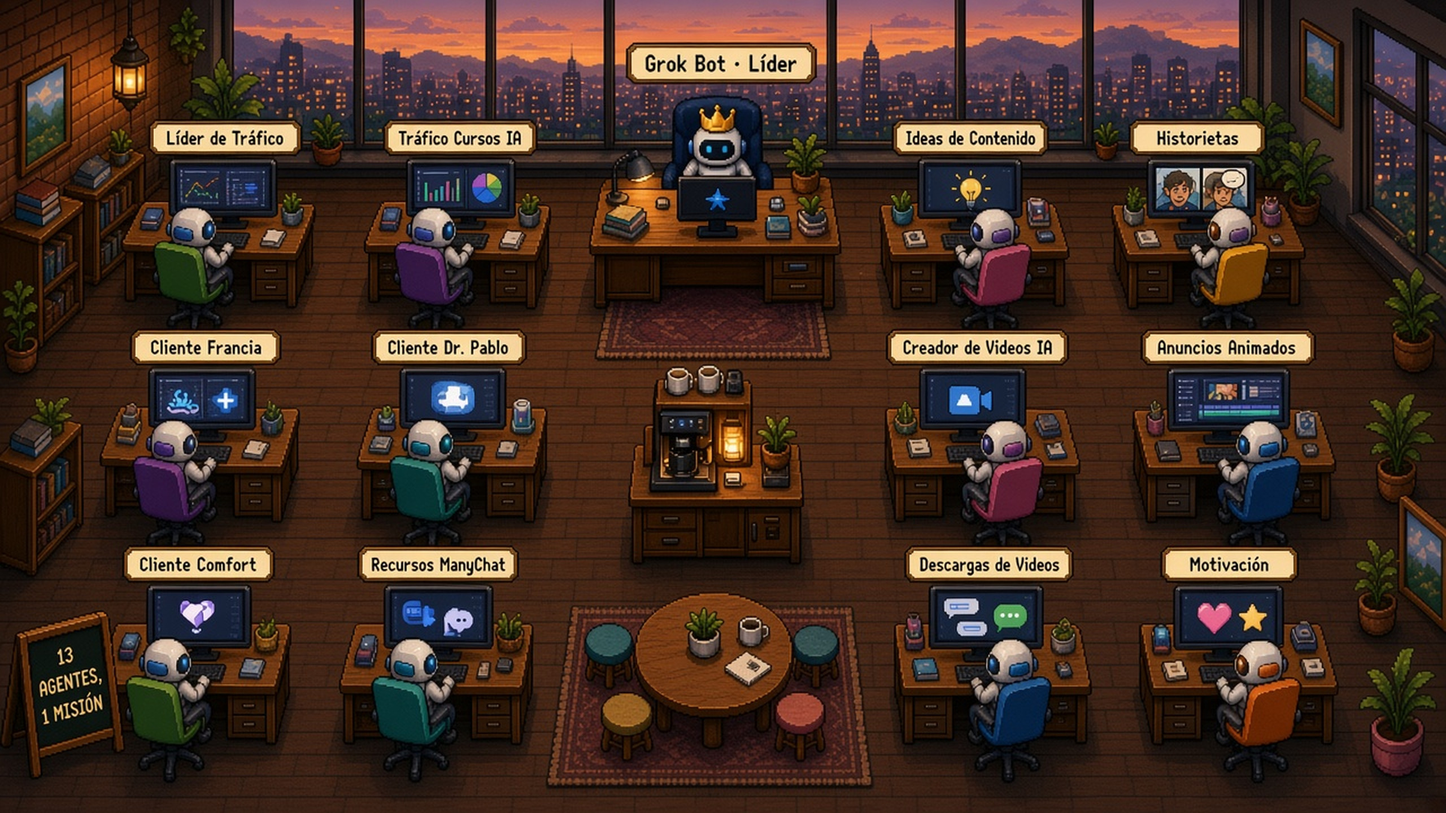
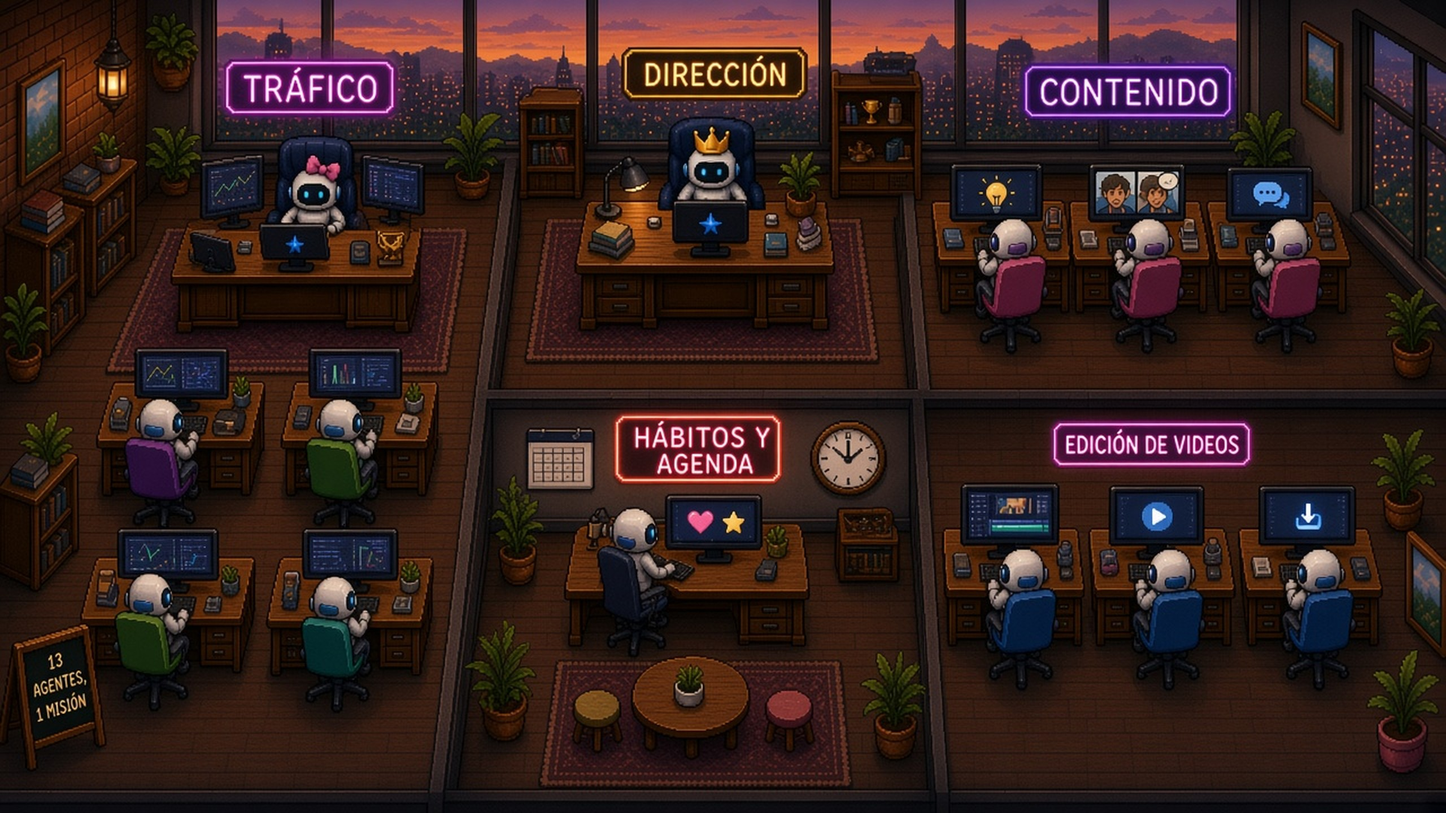
Oficina organizada por departamentos (Ecomoda) con placas de nombre

diff --git a/agentes.js b/agentes.js
@@ -7,6 +7,7 @@
 */
 window.OFICINA = {
   titulo: "Oficina de Agentes · Diego Osorio",
+  version: "modulos-ecomoda-1",
   estados: {
     trabajando: { emoji: "⌨", texto: "trabajando",        color: "#3ddc84", activo: true },
     pensando:   { emoji: "🧠", texto: "pensando ideas",    color: "#b388ff", activo: true },
@@ -18,54 +19,67 @@ window.OFICINA = {
     { id: "grok", nombre: "Don Roberto Mendoza · Grok Bot", rol: "Líder del equipo", lider: true,
       hace: "Coordina a todo el equipo de agentes. Es el único que envía mensajes de WhatsApp, y solo con la aprobación de Diego.",
       reporta: "Diego Osorio", estado: "trabajando",
-      zona: { x: 40.5, y: 5.2, w: 17.9, h: 33.0 } },
+      departamento: "Dirección",
+      zona: { x: 40.0, y: 15.5, w: 17.8, h: 25.5 } },
     { id: "lider-trafico", nombre: "Betty · Líder de Tráfico", rol: "Trafficker senior de la agencia",
       hace: "Supervisa las cuentas de Meta Ads y Google Ads de los clientes de la agencia.",
       reporta: "Don Roberto Mendoza · Grok Bot", estado: "revisando",
-      zona: { x: 8.3, y: 14.8, w: 13.7, h: 25.2 } },
+      departamento: "Tráfico / Anuncios",
+      zona: { x: 11.5, y: 16.0, w: 18.0, h: 25.0 } },
     { id: "francia", nombre: "Cliente Francia", rol: "Cuenta de cliente",
       hace: "Lleva la cuenta de Francia Salazar Estética (Dosquebradas / Pereira).",
       reporta: "Betty · Líder de Tráfico", estado: "trabajando",
-      zona: { x: 6.8, y: 40.5, w: 14.2, h: 26.4 } },
+      departamento: "Tráfico / Anuncios",
+      zona: { x: 6.5, y: 42.5, w: 12.0, h: 21.5 } },
     { id: "cursos-ia", nombre: "Mario Calderón · Tráfico Cursos IA", rol: "Tráfico de la cuenta propia",
       hace: "Maneja el tráfico de la cuenta propia de Diego, que vende sus cursos de IA.",
       reporta: "Don Roberto Mendoza · Grok Bot", estado: "trabajando",
-      zona: { x: 24.9, y: 14.8, w: 13.4, h: 25.2 } },
+      departamento: "Tráfico / Anuncios",
+      zona: { x: 18.7, y: 64.5, w: 11.8, h: 23.0 } },
     { id: "dr-pablo", nombre: "Cliente Dr. Pablo", rol: "Cuenta de cliente",
       hace: "Lleva la cuenta del Dr. Pablo (Quito, tratamiento Emsella).",
       reporta: "Betty · Líder de Tráfico", estado: "esperando",
-      zona: { x: 24.4, y: 40.5, w: 13.5, h: 26.4 } },
+      departamento: "Tráfico / Anuncios",
+      zona: { x: 19.3, y: 42.5, w: 11.5, h: 21.5 } },
     { id: "ideas", nombre: "Don Armando · Ideas de Contenido", rol: "Estratega de contenido",
       hace: "Propone ideas para los reels de Instagram de Diego.",
       reporta: "Don Roberto Mendoza · Grok Bot", estado: "pensando",
-      zona: { x: 60.7, y: 14.8, w: 13.5, h: 25.2 } },
+      departamento: "Contenido",
+      zona: { x: 65.0, y: 19.5, w: 9.7, h: 24.5 } },
     { id: "comfort", nombre: "Cliente Comfort", rol: "Cuenta de cliente",
       hace: "Lleva la cuenta de Clínica Comfort (Ciudad de México), en fase de rescate.",
       reporta: "Betty · Líder de Tráfico", estado: "revisando",
-      zona: { x: 7.8, y: 67.4, w: 12.7, h: 28.5 } },
+      departamento: "Tráfico / Anuncios",
+      zona: { x: 6.0, y: 64.5, w: 12.0, h: 23.0 } },
     { id: "historietas", nombre: "Hugo Lombardi · Historietas", rol: "Ilustrador",
       hace: "Crea imágenes estilo cómic, manga, webtoon y caricatura.",
       reporta: "Don Roberto Mendoza · Grok Bot", estado: "pausa",
-      zona: { x: 76.7, y: 14.8, w: 13.7, h: 25.2 } },
+      departamento: "Contenido",
+      zona: { x: 74.8, y: 19.5, w: 9.7, h: 24.5 } },
     { id: "creador-videos", nombre: "Patricia · Creador de Videos IA", rol: "Productor de video",
       hace: "Genera videos con IA y clones de Diego.",
       reporta: "Don Roberto Mendoza · Grok Bot", estado: "trabajando",
-      zona: { x: 61.0, y: 40.5, w: 13.7, h: 26.4 } },
+      departamento: "Edición de Videos",
+      zona: { x: 75.3, y: 60.5, w: 10.2, h: 24.5 } },
     { id: "anuncios", nombre: "Marcela Valencia · Anuncios Animados", rol: "Animador",
       hace: "Produce anuncios animados verticales con Remotion.",
       reporta: "Don Roberto Mendoza · Grok Bot", estado: "trabajando",
-      zona: { x: 78.1, y: 40.5, w: 14.2, h: 26.4 } },
+      departamento: "Edición de Videos",
+      zona: { x: 65.0, y: 60.5, w: 10.2, h: 24.5 } },
     { id: "manychat", nombre: "Aura María · Recursos ManyChat", rol: "Automatizaciones",
       hace: "Arma automatizaciones de palabra clave en ManyChat para entregar recursos.",
       reporta: "Don Roberto Mendoza · Grok Bot", estado: "esperando",
-      zona: { x: 23.4, y: 67.4, w: 13.5, h: 28.5 } },
+      departamento: "Contenido",
+      zona: { x: 84.6, y: 19.5, w: 9.7, h: 24.5 } },
     { id: "descargas", nombre: "Wilson · Descargas de Videos", rol: "Descargas",
       hace: "Descarga videos de TikTok, Instagram y YouTube.",
       reporta: "Don Roberto Mendoza · Grok Bot", estado: "trabajando",
-      zona: { x: 61.7, y: 67.4, w: 13.7, h: 28.5 } },
+      departamento: "Edición de Videos",
+      zona: { x: 85.6, y: 60.5, w: 10.2, h: 24.5 } },
     { id: "motivacion", nombre: "Freddy · Motivación", rol: "Coach nocturno",
       hace: "Manda un mensaje motivacional cada noche a las 9 p. m.",
       reporta: "Don Roberto Mendoza · Grok Bot", estado: "pausa",
-      zona: { x: 78.6, y: 67.4, w: 14.0, h: 28.5 } }
+      departamento: "Hábitos y Agenda", placa: "abajo",
+      zona: { x: 39.0, y: 59.5, w: 17.0, h: 21.5 } }
   ]
 };

diff --git a/app.js b/app.js
@@ -16,6 +16,7 @@
     var v = tamVisor(), s = Math.min(v.w / IMG_W, v.h / IMG_H);
     base.w = IMG_W * s; base.h = IMG_H * s;
     lienzo.style.width = base.w + 'px'; lienzo.style.height = base.h + 'px';
+    lienzo.style.setProperty('--u', (base.w / 100).toFixed(3) + 'px');
   }
   function limitar(){
     var v = tamVisor(), w = base.w * vista.z, h = base.h * vista.z;
@@ -130,7 +131,13 @@
     z.style.width = a.zona.w + '%'; z.style.height = a.zona.h + '%';
     z.setAttribute('aria-label', a.nombre);
     z.dataset.id = a.id;
-    z.innerHTML = '<span class="punto"></span><span class="globo"></span>';
+    var partes = a.nombre.split(' · ');
+    z.innerHTML = '<span class="placa"><b></b><small></small></span><span class="punto"></span><span class="globo"></span>';
+    var placa = z.querySelector('.placa');
+    if (a.placa === 'abajo') placa.classList.add('abajo');
+    if (a.lider || a.id === 'lider-trafico') placa.classList.add('jefe');
+    placa.querySelector('b').textContent = (a.lider ? '👑 ' : '') + partes[0];
+    placa.querySelector('small').textContent = partes.length > 1 ? partes.slice(1).join(' · ') : a.rol;
     var t = null;
     z.addEventListener('click', function(){
       clearTimeout(t); t = setTimeout(function(){ abrir(a.id); }, 220); // espera por si es doble clic
@@ -165,6 +172,7 @@
     var e = est(a);
     document.getElementById('tNombre').textContent = (a.lider ? '👑 ' : '') + a.nombre;
     document.getElementById('tRol').textContent = a.rol;
+    document.getElementById('tDepto').textContent = a.departamento || '—';
     var te = document.getElementById('tEstado');
     te.textContent = 'Estado: ' + textoEstado(a); te.style.setProperty('--c', e.color);
     document.getElementById('tHace').textContent = a.hace;

diff --git a/estilos.css b/estilos.css
@@ -77,6 +77,18 @@ h1{font-family:var(--pixel);font-size:12px;margin:0;color:var(--acento);text-sha
 .zona:hover .globo,.zona:focus-visible .globo,.zona.activa .globo,.zona.seleccionada .globo{opacity:1;animation:flota 1.6s ease-in-out infinite}
 @keyframes flota{0%,100%{margin-bottom:0}50%{margin-bottom:4px}}
 
+/* Placas con el nombre de cada agente (escalan con la imagen) */
+.placa{position:absolute;left:50%;top:0;transform:translate(-50%,-55%);z-index:3;pointer-events:none;
+  display:flex;flex-direction:column;align-items:center;white-space:nowrap;line-height:1;
+  background:linear-gradient(#2a1d45,#160f26);border:calc(var(--u,10px)*.16) solid #c9a24a;border-radius:calc(var(--u,10px)*.35);
+  padding:calc(var(--u,10px)*.18) calc(var(--u,10px)*.55);box-shadow:0 calc(var(--u,10px)*.15) 0 #000, 0 0 calc(var(--u,10px)*.6) rgba(255,200,90,.35)}
+.placa b{font-family:var(--vt);font-weight:normal;font-size:calc(var(--u,10px)*1.32);color:#ffe7a3;text-shadow:1px 1px 0 #000}
+.placa small{font-family:var(--vt);font-size:calc(var(--u,10px)*.9);color:#d9ccf5;margin-top:calc(var(--u,10px)*.05)}
+.placa.jefe{border-color:#ffd166;background:linear-gradient(#4a2d10,#24150a)}
+.placa.jefe b{font-size:calc(var(--u,10px)*1.5)}
+.placa.abajo{top:auto;bottom:0;transform:translate(-50%,55%)}
+.zona.seleccionada .placa,.zona:hover .placa{border-color:#fff}
+
 /* Ficha flotante a la derecha */
 .panel{position:fixed;z-index:12;right:14px;top:calc(var(--barra) + 10px);width:360px;max-height:calc(100vh - var(--barra) - 90px);overflow:auto;
   background:var(--bg2);border:4px solid var(--borde);box-shadow:6px 6px 0 #000;padding:16px;

diff --git a/index.html b/index.html
@@ -13,7 +13,7 @@
 <body>
 <div class="visor" id="visor" aria-label="Mapa de la oficina. Rueda o pellizco para hacer zoom, arrastra para moverte.">
   <div class="lienzo" id="lienzo">
-    <img id="fondo" src="oficina.jpg" alt="Oficina pixel art con 13 robots, cada uno en su escritorio" width="2560" height="1440" draggable="false">
+    <img id="fondo" src="oficina.jpg?v=modulos1" alt="Oficina pixel art organizada en 5 departamentos: Dirección, Tráfico, Contenido, Edición de Videos y Hábitos y Agenda, con 13 robots en sus escritorios" width="2560" height="1440" draggable="false">
     <div id="zonas"></div>
   </div>
 </div>
@@ -55,6 +55,7 @@
     <h2 id="tNombre"></h2>
     <p class="estado-t" id="tEstado"></p>
     <dl>
+      <dt>Departamento</dt><dd id="tDepto"></dd>
       <dt>Qué hace</dt><dd id="tHace"></dd>
       <dt>Reporta a</dt><dd id="tReporta"></dd>
       <dt>Equipo a cargo</dt><dd id="tEquipo"></dd>
